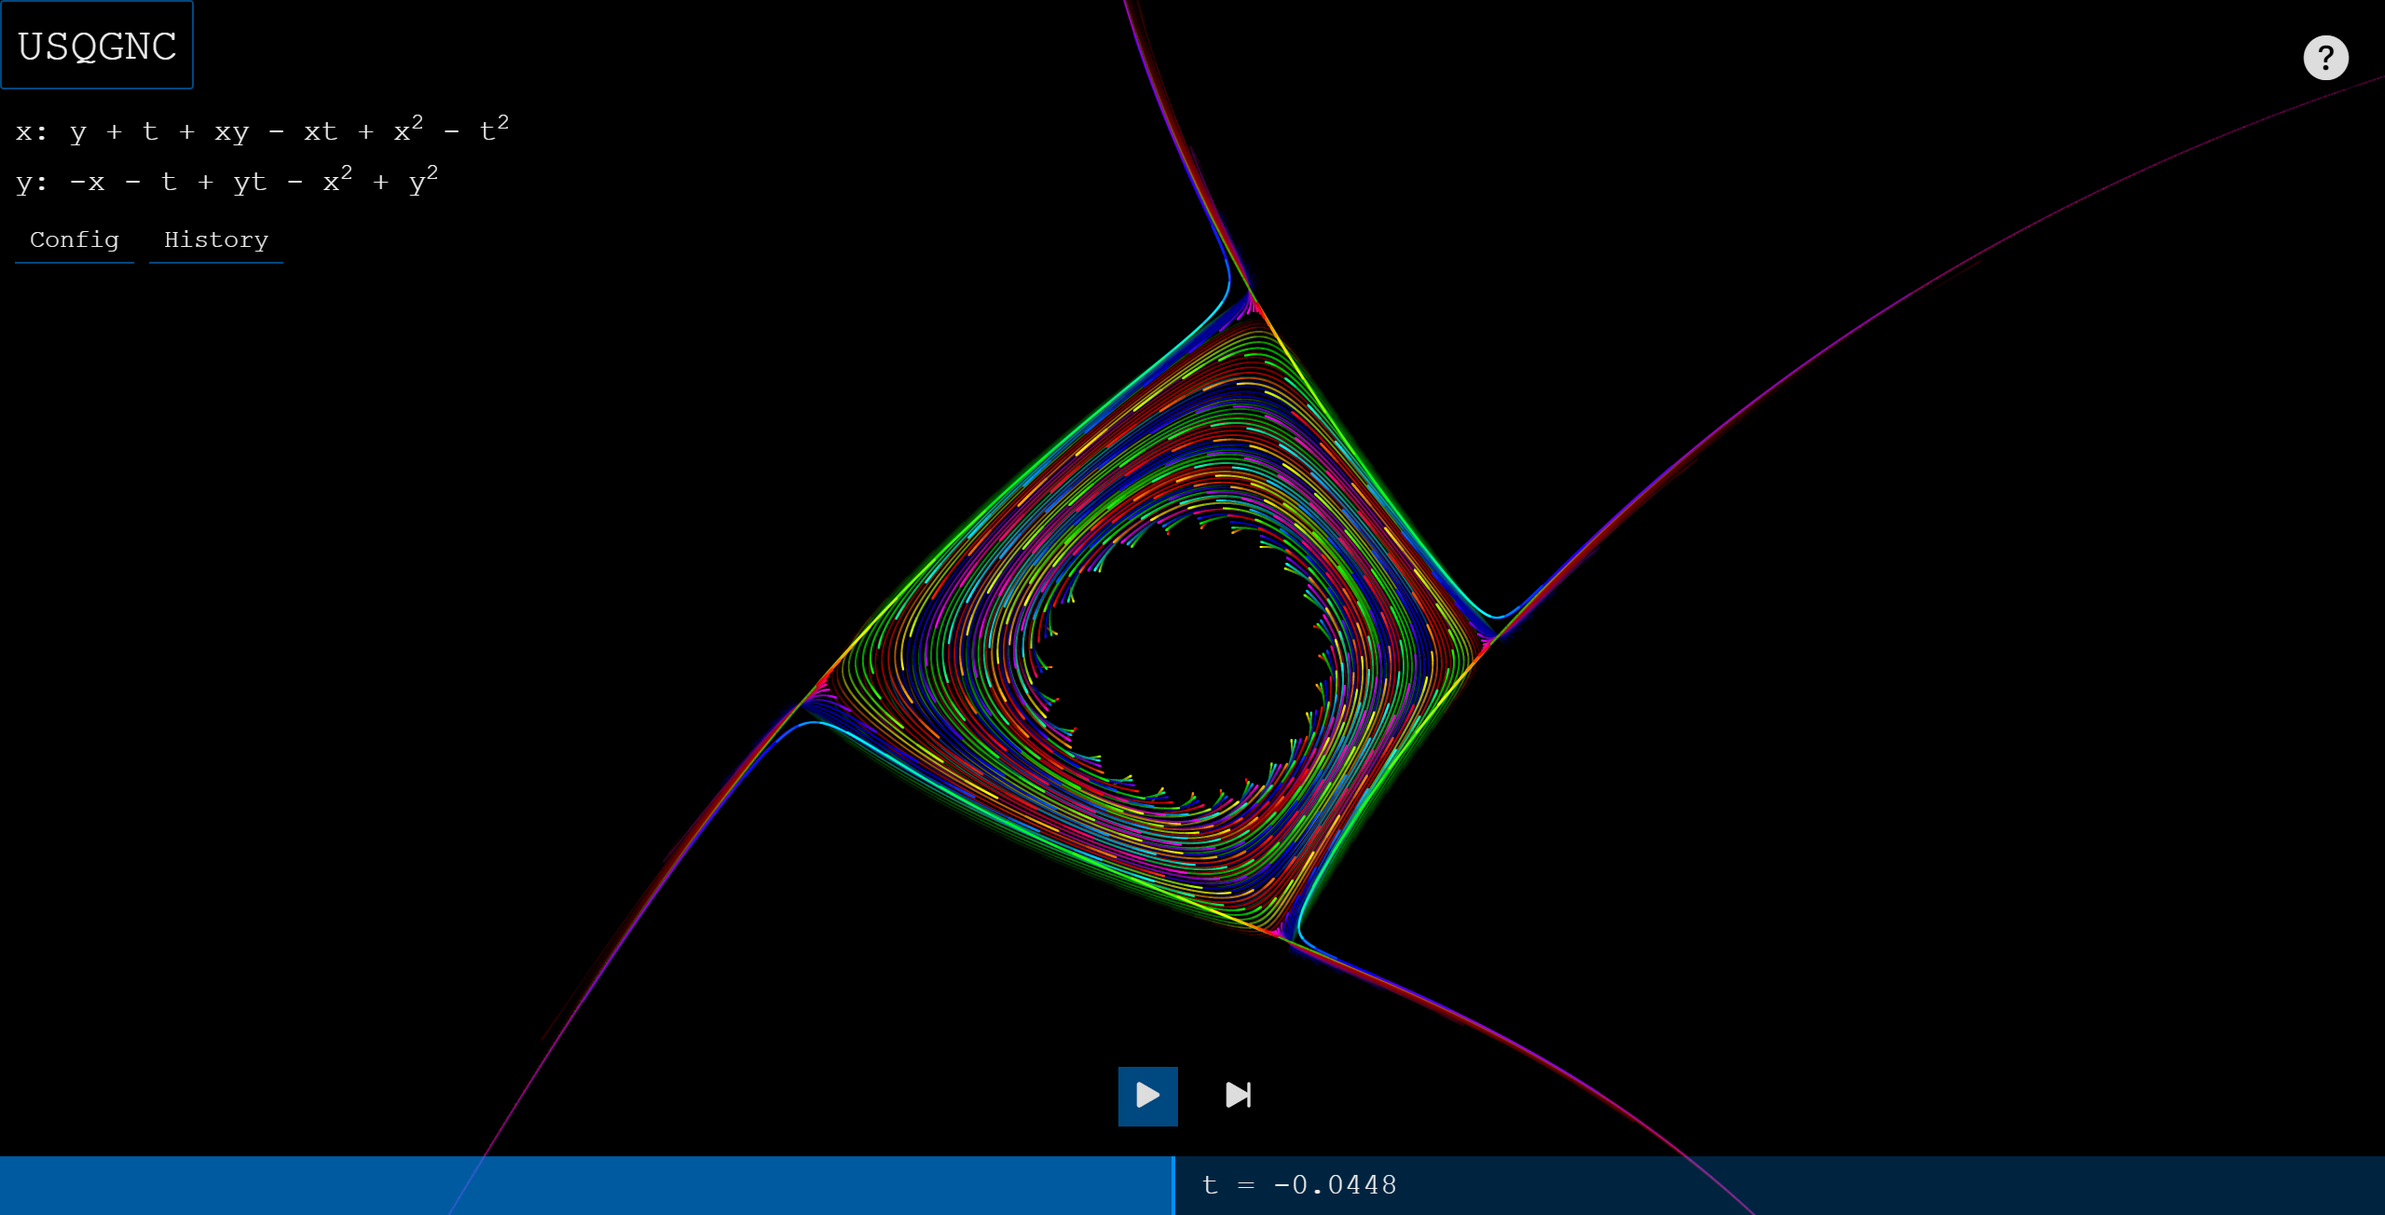
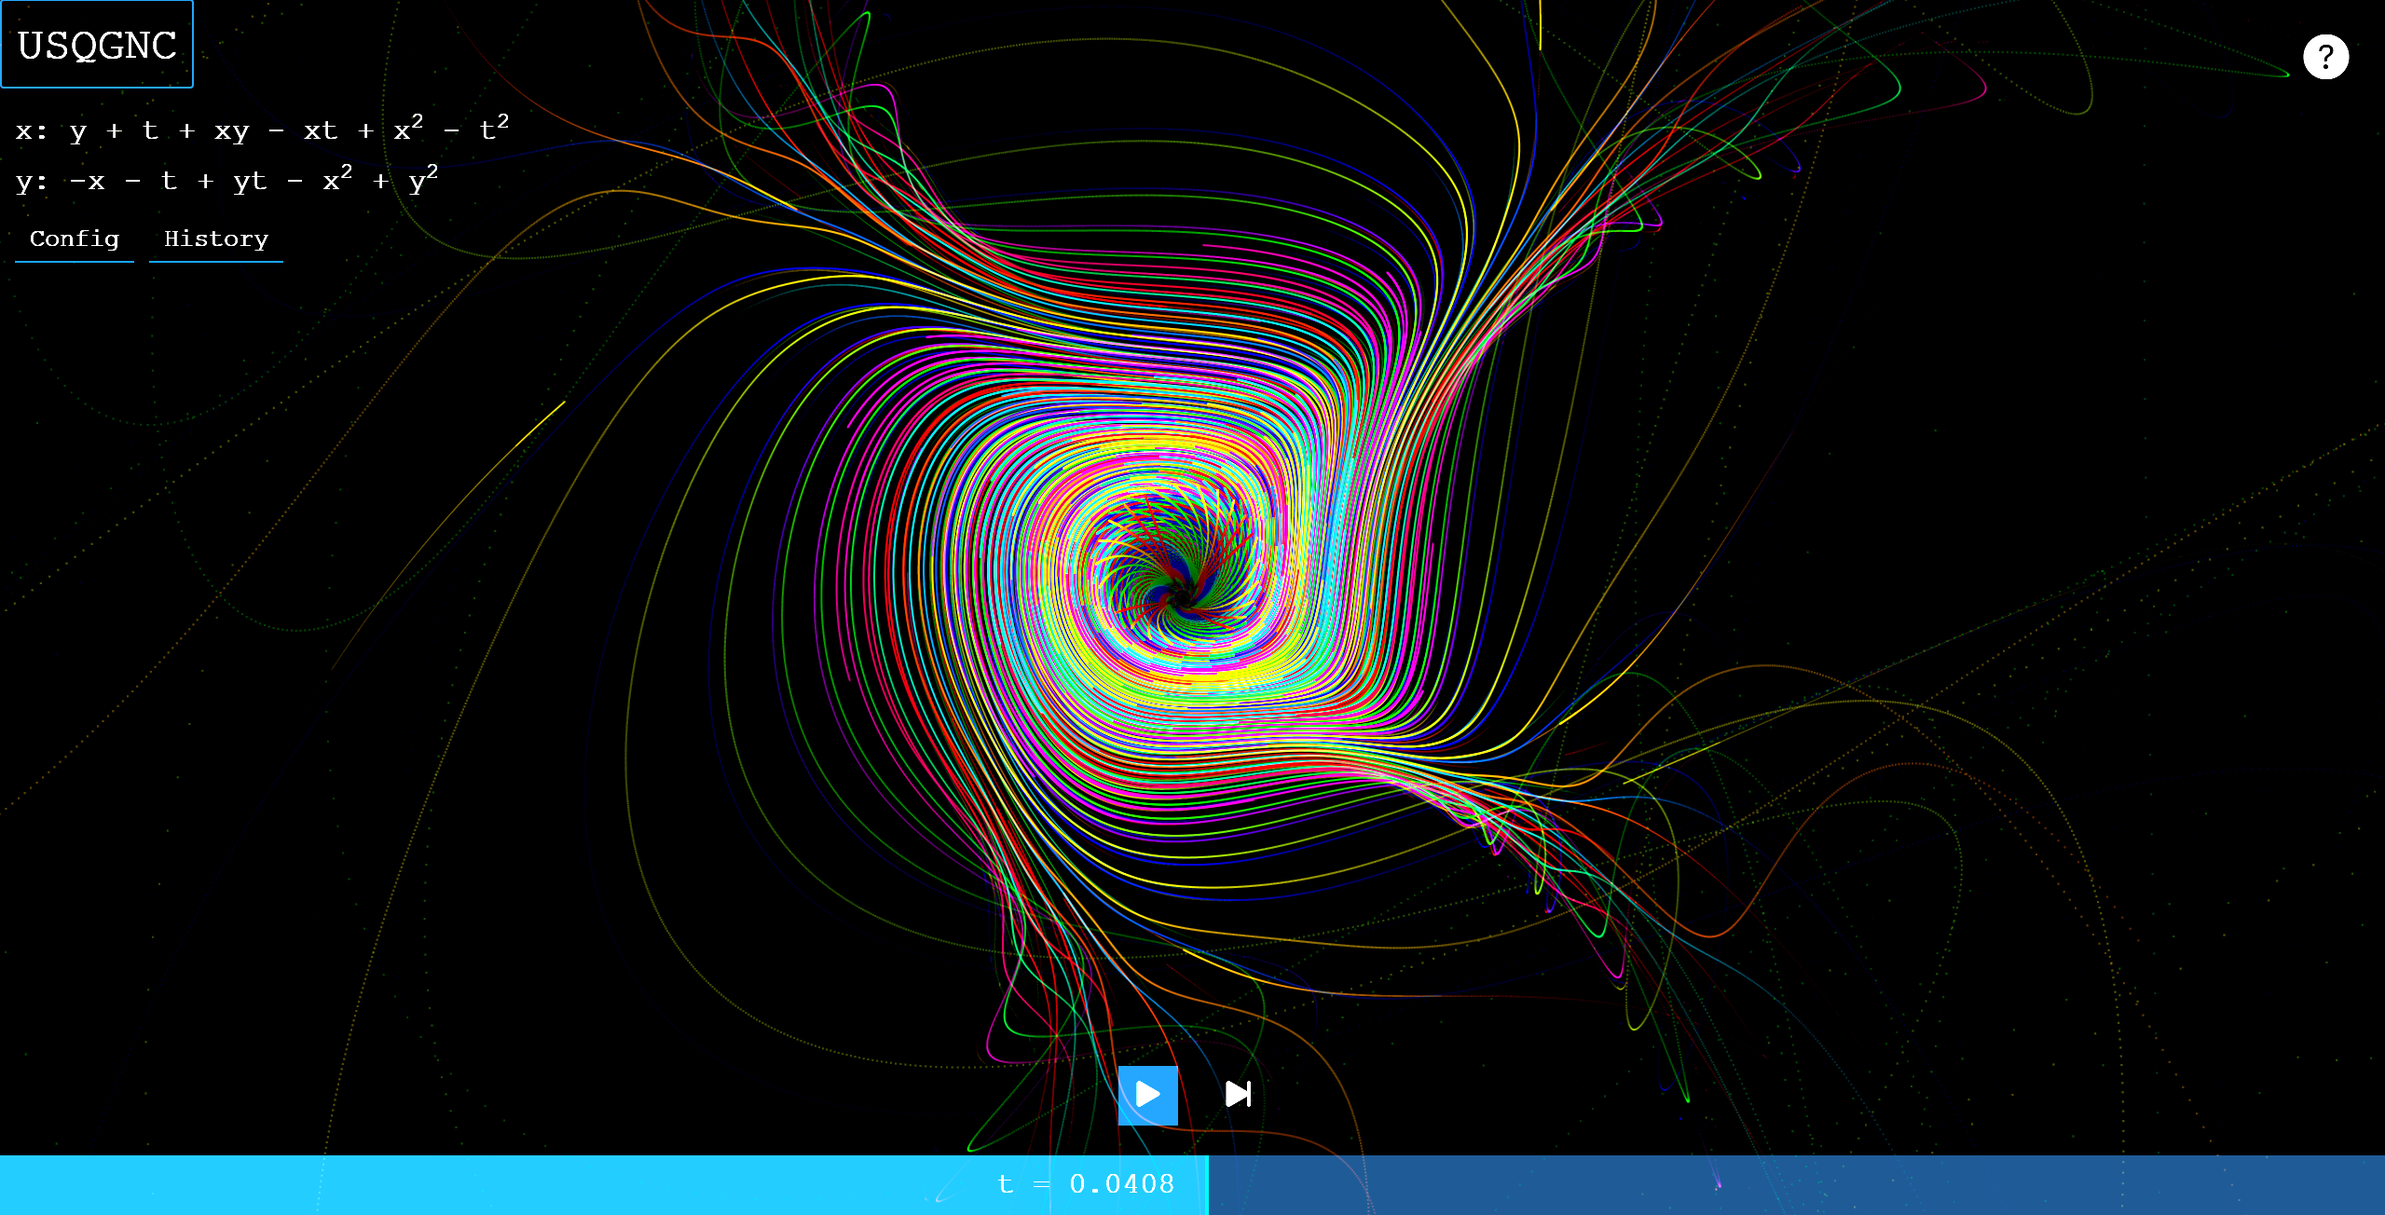
Update images and minor content for chaos overlay

diff --git a/src/index.html b/src/index.html
@@ -59,6 +59,116 @@
         <div class="divider-header">
           <h1>Personal Showcase</h1>
         </div>
+        <div id="project-chaos" class="project-summary row">
+          <div class="col-md-8">
+            <div class="project-thumb-outline">
+              <img class="thumbnail activate-overlay activate-chaos" src="img/chaos/chaos-thumbnail.png"
+                alt="Chaos Equations Thumbnail" />
+            </div>
+          </div>
+          <div class="col-md-4">
+            <h3 class="activate-overlay activate-chaos">Chaos Equations</h3>
+            <h5>
+              <a href="https://chaos.jered.io/?p=USQGNC" class="header-link" target="_blank">View Live
+                <span class="icon-new-tab"></span></a>
+            </h5>
+            <p>
+              Solo project to visualize chaotic equations in the browser with interactive controls.
+            </p>
+            <p>A case study in how simple algebraic formulae and dynamic iterative systems can result in complex and
+              beautiful emergent behavior.</p>
+            <p>
+              Inspired by YouTuber and creative coder CodeParade, my version improves upon his foundation, bringing it
+              to the world wide web where it can be accessed by anyone.
+            </p>
+            <h5 class="activate-overlay activate-chaos h5-link">Read More</h5>
+          </div>
+          <div id="chaos-overlay" class="project-overlay">
+            <div class="container">
+              <div class="row">
+                <div class="col-xs-10 col-xs-offset-1">
+                  <h1>Chaos Equations</h1>
+                  <h4>Visualizing mathematical systems</h4>
+                  <h5 style="text-align: center">Released 2019, Updated 2026</h5>
+                  <h5 style="text-align: center">
+                    <a href="https://chaos.jered.io/?p=NCVUHH" class="header-link" target="_blank">View Live
+                      <span class="icon-new-tab"></span></a>
+                  </h5>
+                  <div class="row">
+                    <div class="col-xs-12">
+                      <div class="img-box">
+                        <img class="thumbnail" src="img/chaos/chaos-hero.png" alt="Chaos Equations Hero" />
+                      </div>
+                    </div>
+                  </div>
+                  <div class="row">
+                    <div class="col-md-8 col-md-offset-2 col-sm-12 col-sm-offset-0">
+                      <p>
+                        [Placeholder: intro paragraph]
+                      </p>
+                    </div>
+                    <div class="col-xs-12">
+                      <div class="img-box">
+                        <img class="thumbnail" src="img/chaos/chaos-before-1.png"
+                          alt="[Placeholder: first before image description]" />
+                        <div class="caption">
+                          [Placeholder: first before image caption]
+                        </div>
+                      </div>
+                    </div>
+                    <div class="col-md-8 col-md-offset-2 col-sm-12 col-sm-offset-0">
+                      <p>
+                        [Placeholder: paragraph following first before image]
+                      </p>
+                    </div>
+                    <div class="col-xs-12">
+                      <div class="img-box">
+                        <img class="thumbnail" src="img/chaos/chaos-after-1.png"
+                          alt="[Placeholder: first after image description]" />
+                        <div class="caption">
+                          [Placeholder: first after image caption]
+                        </div>
+                      </div>
+                    </div>
+                    <div class="col-md-8 col-md-offset-2 col-sm-12 col-sm-offset-0">
+                      <p>
+                        [Placeholder: paragraph following first after image]
+                      </p>
+                    </div>
+                    <div class="col-xs-12">
+                      <div class="img-box">
+                        <img class="thumbnail" src="img/chaos/chaos-before-2.png"
+                          alt="[Placeholder: second before image description]" />
+                        <div class="caption">
+                          [Placeholder: second before image caption]
+                        </div>
+                      </div>
+                    </div>
+                    <div class="col-md-8 col-md-offset-2 col-sm-12 col-sm-offset-0">
+                      <p>
+                        [Placeholder: paragraph following second before image]
+                      </p>
+                    </div>
+                    <div class="col-xs-12">
+                      <div class="img-box">
+                        <img class="thumbnail" src="img/chaos/chaos-after-2.png"
+                          alt="[Placeholder: final after image description]" />
+                        <div class="caption">
+                          [Placeholder: final after image caption]
+                        </div>
+                      </div>
+                    </div>
+                    <div class="col-md-8 col-md-offset-2 col-sm-12 col-sm-offset-0">
+                      <p>
+                        [Placeholder: closing paragraph]
+                      </p>
+                    </div>
+                  </div>
+                </div>
+              </div>
+            </div>
+          </div>
+        </div>
         <div id="project-apod" class="project-summary row">
           <div class="col-md-8">
             <div class="project-thumb-outline">
@@ -69,7 +179,7 @@
             <h3 class="activate-overlay activate-apod">APOD 2.0</h3>
             <h5>
               <a href="https://apod.jered.io" class="header-link" target="_blank">View Live
-                <span style="font-size: 12px" class="icon-new-tab"></span></a>
+                <span class="icon-new-tab"></span></a>
             </h5>
             <p>
               APOD 2.0 is a solo personal design project to update NASA's
@@ -92,49 +202,16 @@
               <div class="row">
                 <div class="col-xs-10 col-xs-offset-1">
                   <h1>APOD 2.0</h1>
-                  <h4>Updating NASA's website for the modern web.</h4>
+                  <h4>Updating NASA's website for the modern web</h4>
                   <h5 style="text-align: center">Released 2016, updated 2026</h5>
                   <h5 style="text-align: center">
                     <a href="https://apod.jered.io" class="header-link" target="_blank">View Live
-                      <span style="font-size: 12px" class="icon-new-tab"></span></a>
+                      <span class="icon-new-tab"></span></a>
                   </h5>
                   <div class="row">
                     <div class="col-xs-12">
                       <div class="img-box">
                         <img class="thumbnail" src="img/apod/apod-hero.jpg" alt="APOD 2.0 Hero" />
-                      </div>
-                    </div>
-                    <div style="margin-top: 25px; margin-bottom: 25px"
-                      class="col-md-8 col-md-offset-2 col-sm-12 col-sm-offset-0">
-                      <div class="row">
-                        <div class="col-md-4 col-md-offset-0 col-sm-4 col-sm-offset-4">
-                          <div class="skills-block">
-                            <h5>Tech</h5>
-                            <ul>
-                              <li>React.js</li>
-                              <li>jQuery</li>
-                              <li>REST API</li>
-                            </ul>
-                          </div>
-                        </div>
-                        <div class="col-md-4 col-md-offset-0 col-sm-4 col-sm-offset-4">
-                          <div class="skills-block">
-                            <h5>Roles</h5>
-                            <ul>
-                              <li>Project Manager</li>
-                              <li>UX Designer</li>
-                              <li>Programmer</li>
-                            </ul>
-                          </div>
-                        </div>
-                        <div class="col-md-4 col-md-offset-0 col-sm-4 col-sm-offset-4">
-                          <div class="skills-block">
-                            <h5>Client</h5>
-                            <ul>
-                              <li>Personal Project</li>
-                            </ul>
-                          </div>
-                        </div>
                       </div>
                     </div>
                   </div>
@@ -290,145 +367,7 @@
             </div>
           </div>
         </div>
-        <div id="project-chaos" class="project-summary row">
-          <div class="col-md-8">
-            <div class="project-thumb-outline">
-              <img class="thumbnail activate-overlay activate-chaos" src="img/chaos/chaos-thumbnail.png"
-                alt="Chaos Equations Thumbnail" />
-            </div>
-          </div>
-          <div class="col-md-4">
-            <h3 class="activate-overlay activate-chaos">Chaos Equations</h3>
-            <h5>
-              <a href="https://chaos.jered.io" class="header-link" target="_blank">View Live
-                <span style="font-size: 12px" class="icon-new-tab"></span></a>
-            </h5>
-            <p>
-              [Placeholder: summary paragraph 1]
-            </p>
-            <p>
-              [Placeholder: summary paragraph 2]
-            </p>
-            <p>
-              [Placeholder: summary paragraph 3]
-            </p>
-            <h5 class="activate-overlay activate-chaos h5-link">Read More</h5>
-          </div>
-          <div id="chaos-overlay" class="project-overlay">
-            <div class="container">
-              <div class="row">
-                <div class="col-xs-10 col-xs-offset-1">
-                  <h1>Chaos Equations</h1>
-                  <h4>[Placeholder: tagline]</h4>
-                  <h5 style="text-align: center">[Placeholder: release date]</h5>
-                  <h5 style="text-align: center">
-                    <a href="https://chaos.jered.io" class="header-link" target="_blank">View Live
-                      <span style="font-size: 12px" class="icon-new-tab"></span></a>
-                  </h5>
-                  <div class="row">
-                    <div class="col-xs-12">
-                      <div class="img-box">
-                        <img class="thumbnail" src="img/chaos/chaos-hero.png" alt="Chaos Equations Hero" />
-                      </div>
-                    </div>
-                    <div style="margin-top: 25px; margin-bottom: 25px"
-                      class="col-md-8 col-md-offset-2 col-sm-12 col-sm-offset-0">
-                      <div class="row">
-                        <div class="col-md-4 col-md-offset-0 col-sm-4 col-sm-offset-4">
-                          <div class="skills-block">
-                            <h5>Tech</h5>
-                            <ul>
-                              <li>[Placeholder: tech]</li>
-                            </ul>
-                          </div>
-                        </div>
-                        <div class="col-md-4 col-md-offset-0 col-sm-4 col-sm-offset-4">
-                          <div class="skills-block">
-                            <h5>Roles</h5>
-                            <ul>
-                              <li>[Placeholder: role]</li>
-                            </ul>
-                          </div>
-                        </div>
-                        <div class="col-md-4 col-md-offset-0 col-sm-4 col-sm-offset-4">
-                          <div class="skills-block">
-                            <h5>Client</h5>
-                            <ul>
-                              <li>[Placeholder: client]</li>
-                            </ul>
-                          </div>
-                        </div>
-                      </div>
-                    </div>
-                  </div>
-                  <div class="row">
-                    <div class="col-md-8 col-md-offset-2 col-sm-12 col-sm-offset-0">
-                      <p>
-                        [Placeholder: intro paragraph]
-                      </p>
-                    </div>
-                    <div class="col-xs-12">
-                      <div class="img-box">
-                        <img class="thumbnail" src="img/chaos/chaos-before-1.png"
-                          alt="[Placeholder: first before image description]" />
-                        <div class="caption">
-                          [Placeholder: first before image caption]
-                        </div>
-                      </div>
-                    </div>
-                    <div class="col-md-8 col-md-offset-2 col-sm-12 col-sm-offset-0">
-                      <p>
-                        [Placeholder: paragraph following first before image]
-                      </p>
-                    </div>
-                    <div class="col-xs-12">
-                      <div class="img-box">
-                        <img class="thumbnail" src="img/chaos/chaos-after-1.png"
-                          alt="[Placeholder: first after image description]" />
-                        <div class="caption">
-                          [Placeholder: first after image caption]
-                        </div>
-                      </div>
-                    </div>
-                    <div class="col-md-8 col-md-offset-2 col-sm-12 col-sm-offset-0">
-                      <p>
-                        [Placeholder: paragraph following first after image]
-                      </p>
-                    </div>
-                    <div class="col-xs-12">
-                      <div class="img-box">
-                        <img class="thumbnail" src="img/chaos/chaos-before-2.png"
-                          alt="[Placeholder: second before image description]" />
-                        <div class="caption">
-                          [Placeholder: second before image caption]
-                        </div>
-                      </div>
-                    </div>
-                    <div class="col-md-8 col-md-offset-2 col-sm-12 col-sm-offset-0">
-                      <p>
-                        [Placeholder: paragraph following second before image]
-                      </p>
-                    </div>
-                    <div class="col-xs-12">
-                      <div class="img-box">
-                        <img class="thumbnail" src="img/chaos/chaos-after-2.png"
-                          alt="[Placeholder: final after image description]" />
-                        <div class="caption">
-                          [Placeholder: final after image caption]
-                        </div>
-                      </div>
-                    </div>
-                    <div class="col-md-8 col-md-offset-2 col-sm-12 col-sm-offset-0">
-                      <p>
-                        [Placeholder: closing paragraph]
-                      </p>
-                    </div>
-                  </div>
-                </div>
-              </div>
-            </div>
-          </div>
-        </div>
+
       </section>
       <section id="clients">
         <div class="divider-header">

diff --git a/src/css/index.css b/src/css/index.css
@@ -25,6 +25,7 @@
 @media screen and (min-width: 1200px) {
   :root {
     --ratio: calc(1200 / 150);
+    --overlay-width: min(1440px, calc(100vw - 30px));
   }
 }
 
@@ -107,6 +108,14 @@ a {
   &:hover {
     color: white;
     background: var(--dark-gray);
+  }
+}
+
+.header-link {
+  font-size: 1.5rem;
+
+  .icon-new-tab {
+    font-size: 0.85em;
   }
 }
 
@@ -326,6 +335,12 @@ footer {
     pointer-events: none;
     transition: 0.6s all cubic-bezier(0.25, 0, 0.1, 1);
 
+    @media screen and (min-width: 1200px) {
+      .container {
+        width: var(--overlay-width);
+      }
+    }
+
     .img-box {
       margin: 75px 0;
       text-align: center;
@@ -373,19 +388,6 @@ footer {
       list-style-type: square;
     }
 
-    @media screen and (min-width: 992px) {
-      .col-md-4 {
-        position: relative;
-      }
-
-      .skills-block {
-        position: relative;
-        left: 50%;
-        transform: translateX(-50%);
-        display: inline-block;
-      }
-    }
-
     @media screen and (max-width: 767px) {
       padding: 20px 0 0 0;
       top: 40px;
@@ -414,6 +416,12 @@ footer {
   opacity: 0;
   pointer-events: none;
   cursor: pointer;
+
+  /* keep the button on the overlay's left edge; 1170px is the nav container's width */
+  @media screen and (min-width: 1200px) {
+    left: calc((1170px - var(--overlay-width)) / 2);
+  }
+
   span {
     position: absolute;
     display: block;
